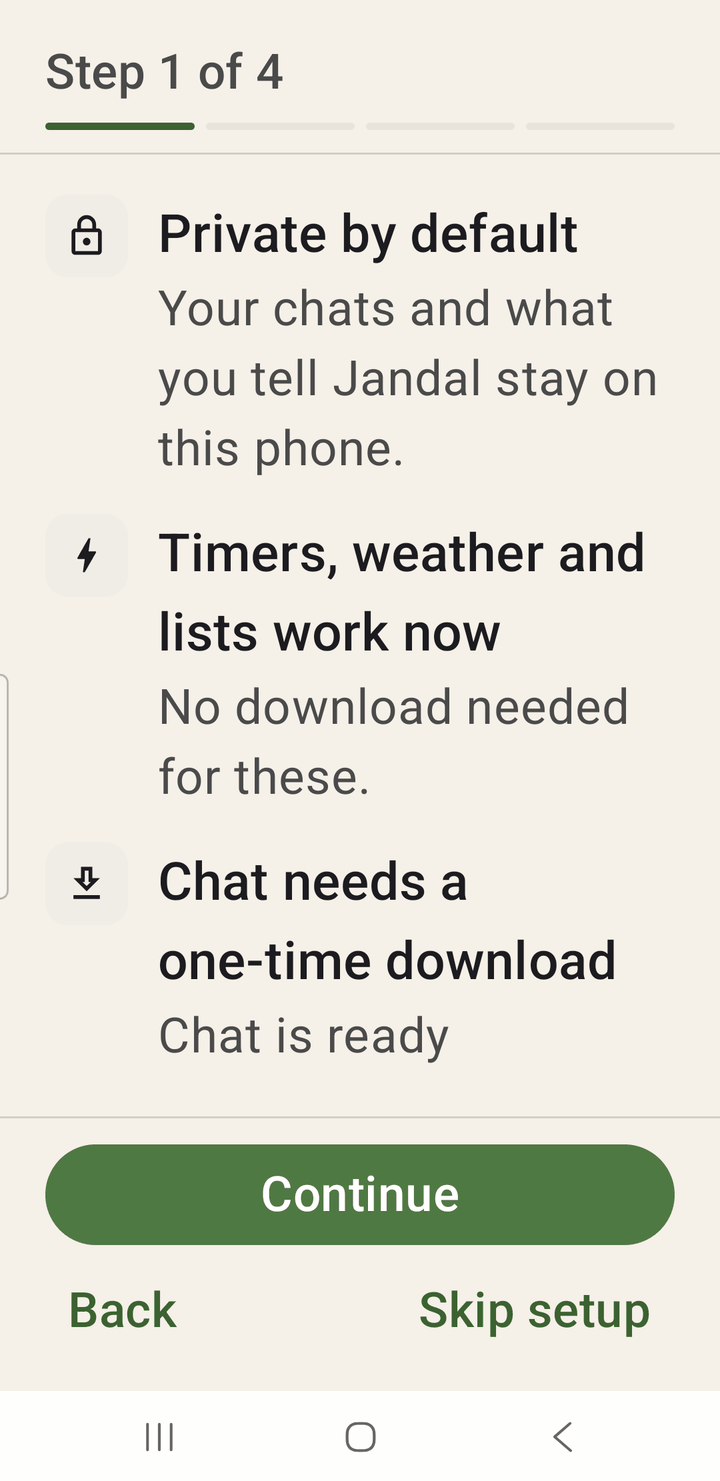
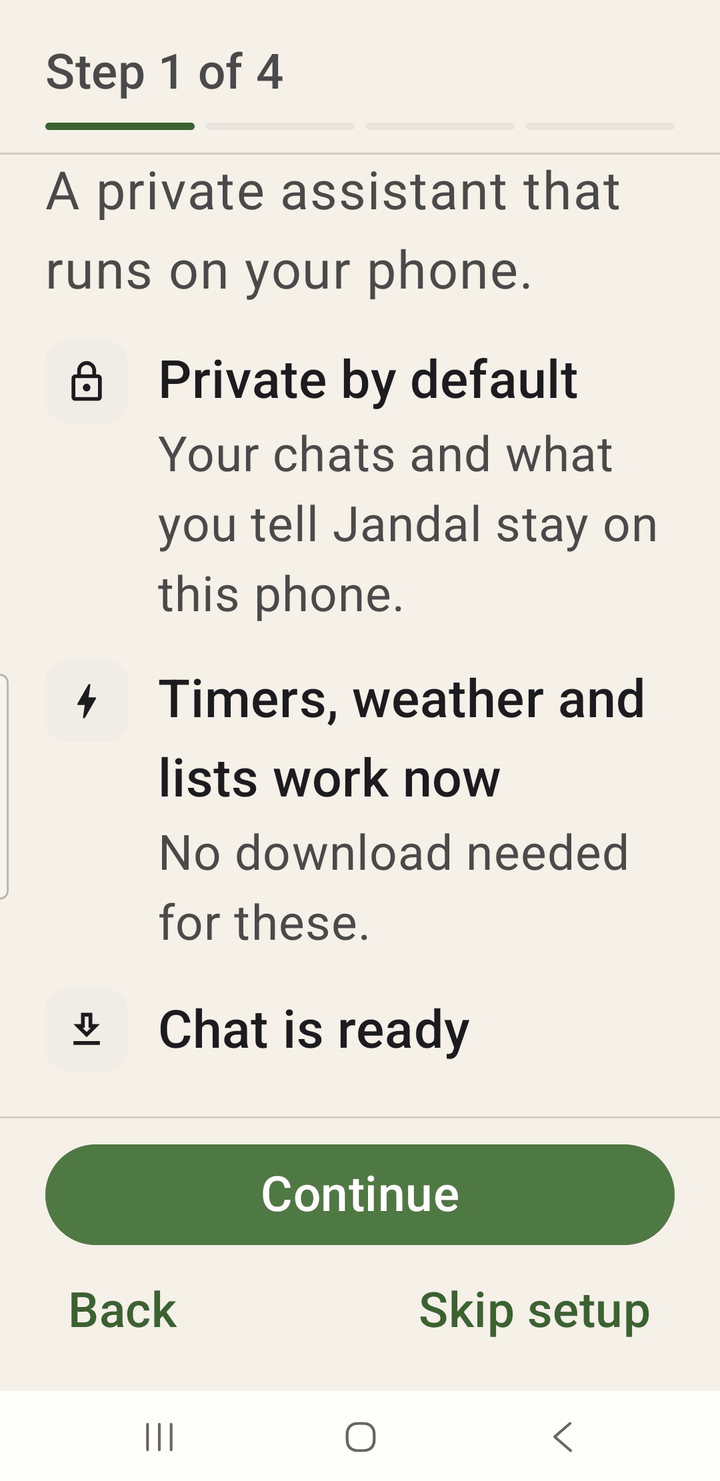
feat(#1936): Kia ora said as Kee-ora by Sherpa voices; step 1 evidence
- pronunciation_lexicon.json: "Kia ora" -> "Kee-ora" (owner pick, verify false), whole-word and
  case-insensitive, applied only by SherpaSpeechText.prepare before Sherpa/Piper synthesis, so
  displayed text never changes. Test alongside the Jandal one; docs/pronunciation-lexicon.md row.
- Debug SampleClipReceiver default text uses the same spelling.
- Step 1 re-captured on the S23U ("Chat is ready" as the title); setup androidTests 20/20.

diff --git a/app/src/debug/java/com/kernel/ai/debug/sample/SampleClipReceiver.kt b/app/src/debug/java/com/kernel/ai/debug/sample/SampleClipReceiver.kt
@@ -26,7 +26,7 @@ import kotlinx.coroutines.launch
  * runtime probe instead.
  *
  *   adb -s <serial> shell am broadcast -n ai.jandal.assistant.debug/com.kernel.ai.debug.sample.SampleClipReceiver \
- *       --es text "Kia ora, I'm Jandle. What can I help with?"
+ *       --es text "Kee-ora, I'm Jandle. What can I help with?"
  */
 class SampleClipReceiver : BroadcastReceiver() {
     override fun onReceive(context: Context, intent: Intent) {
@@ -104,7 +104,8 @@ class SampleClipReceiver : BroadcastReceiver() {
 
     companion object {
         private const val TAG = "SampleClipReceiver"
-        private const val DEFAULT_TEXT = "Kia ora, I'm Jandle. What can I help with?"
+        // Respelled as the lexicon does, since this calls the generator directly (bundled sample_cori.ogg).
+        private const val DEFAULT_TEXT = "Kee-ora, I'm Jandle. What can I help with?"
     }
 }
 

diff --git a/core/voice/src/test/java/com/kernel/ai/core/voice/PronunciationLexiconTest.kt b/core/voice/src/test/java/com/kernel/ai/core/voice/PronunciationLexiconTest.kt
@@ -133,6 +133,15 @@ class PronunciationLexiconTest {
     }
 
     @Test
+    fun `shipped asset respells Kia ora as Kee-ora in any case and inside sentences`() {
+        val json = File("src/lexicon/assets/${PronunciationLexicon.ASSET_NAME}").readText()
+        PronunciationLexicon.install(PronunciationLexicon.parse(json))
+        assertEquals("Kee-ora, I'm Jandle.", SherpaSpeechText.prepare("Kia ora, I'm Jandal."))
+        assertEquals("Well, Kee-ora to you!", SherpaSpeechText.prepare("Well, kia ora to you!"))
+        assertEquals("Kee-ora.", SherpaSpeechText.prepare("KIA ORA"))
+    }
+
+    @Test
     fun `Sherpa speech preparation applies the lexicon before number handling`() {
         install("Petone" to "Pih-toe-nee")
         assertEquals(

diff --git a/docs/evidence/1936/README.md b/docs/evidence/1936/README.md
@@ -30,4 +30,6 @@ The S23U cannot show the blocked states (it has a microphone, the model and no U
 
 ## Instrumented tests
 
-`TEST-SM-S918B-setup-wizard-androidTest.xml` (raw output, round 2): `SetupWizardLargeFontTest` (19, including the four last-item-above-footer tests, More below, scroll reset and `heyJandalTitleStaysOnOneLineWithNeedsAccessAtLargeFont`) and `MakeYoursResumeRefreshTest` (1), run with `ANDROID_SERIAL=RFCW11265XH ./gradlew :feature:chat:connectedDebugAndroidTest`: 0 failures. The same run included the throwaway `EvidenceCaptureTest` (`capture`, which drew `states/`; not committed), so the file reports 21 tests.
+`TEST-SM-S918B-setup-wizard-androidTest.xml` (raw output, after the owner's welcome-row decision): `SetupWizardLargeFontTest` (19, including the four last-item-above-footer tests, More below, scroll reset and `heyJandalTitleStaysOnOneLineWithNeedsAccessAtLargeFont`) and `MakeYoursResumeRefreshTest` (1), run with `ANDROID_SERIAL=RFCW11265XH ./gradlew :feature:chat:connectedDebugAndroidTest`: 20 tests, 0 failures. The `states/` images came from a separate throwaway render test in round 2 (not committed).
+
+Step 1 (`*-step1-*.png`) was re-captured after the owner's decision: with nothing left to download the third row's title is "Chat is ready" and it has no body line.

diff --git a/docs/pronunciation-lexicon.md b/docs/pronunciation-lexicon.md
@@ -56,6 +56,7 @@ pronunciations. Set `verify: true` only for an entry with no owner pick yet. Can
 | Taihape | Tie-happy | false | Owner, by ear, 2026-11-14 (replaces Tie-ha-peh) |
 | Waikato | Why-kat-o | false | Owner, by ear, 2026-11-14 |
 | Jandal, Jandals | Jandle, Jandles | true | #1942: owner heard Cori say "jun-DALL"; target JAN-dl, rhymes with handle. eSpeak (Cori's `espeak-ng-data`, voice `en`): `Jandal` alone is `dʒˈandəl`, but inside a longer token (`jandaltest`) the `-dal` becomes `dɒl`; `Jandle` is `dʒˈandəl` like `handle` (`hˈandəl`) |
+| Kia ora | Kee-ora | false | Owner, by ear, 2026-11-16 (#1936 Cori sample, candidate 4 of 4). The plain spelling sounded clipped ("kyora"): eSpeak gives `kˈiəɹ ˈɔːɹə` with a linking r; `Kee-ora` gives `kˈiːˈɔːɹə` |
 
 Not in the lexicon: Ōtaki, Waikanae, Hāwera, Rotorua (not clearly wrong, not listened to).
 
